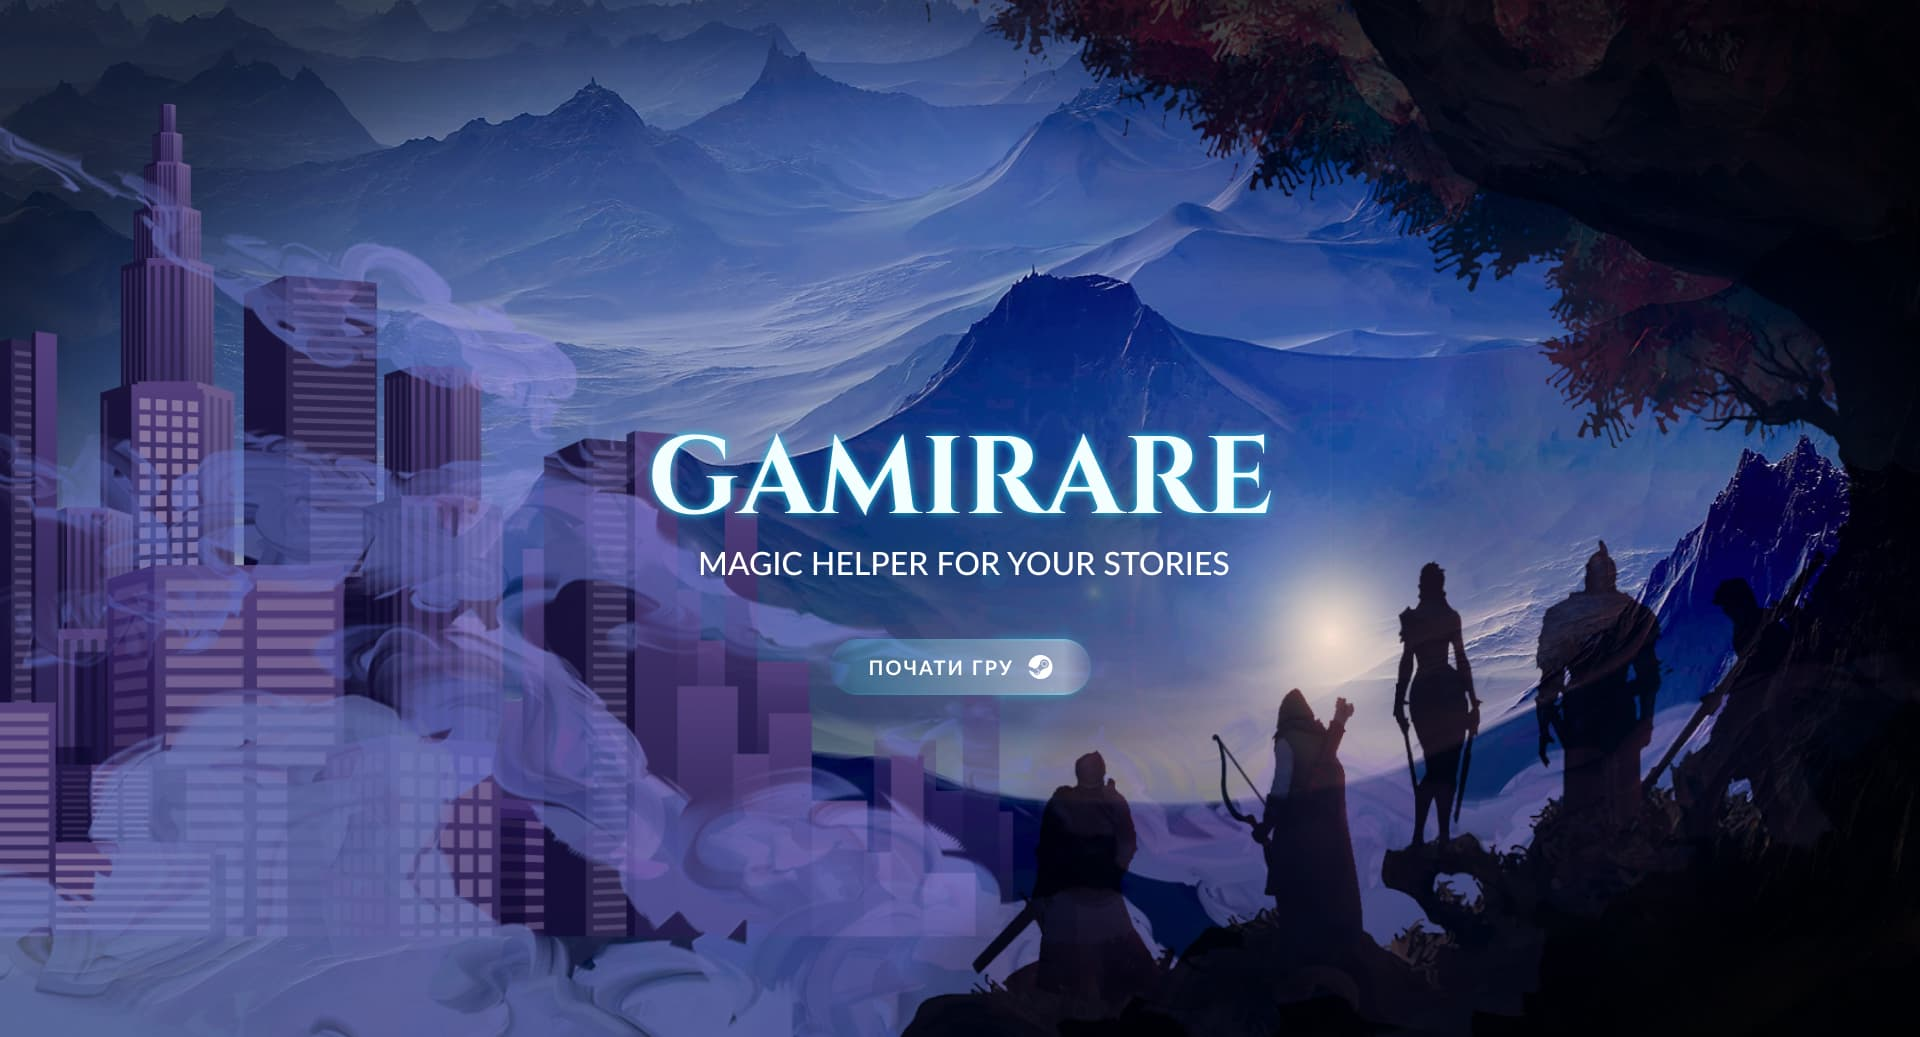
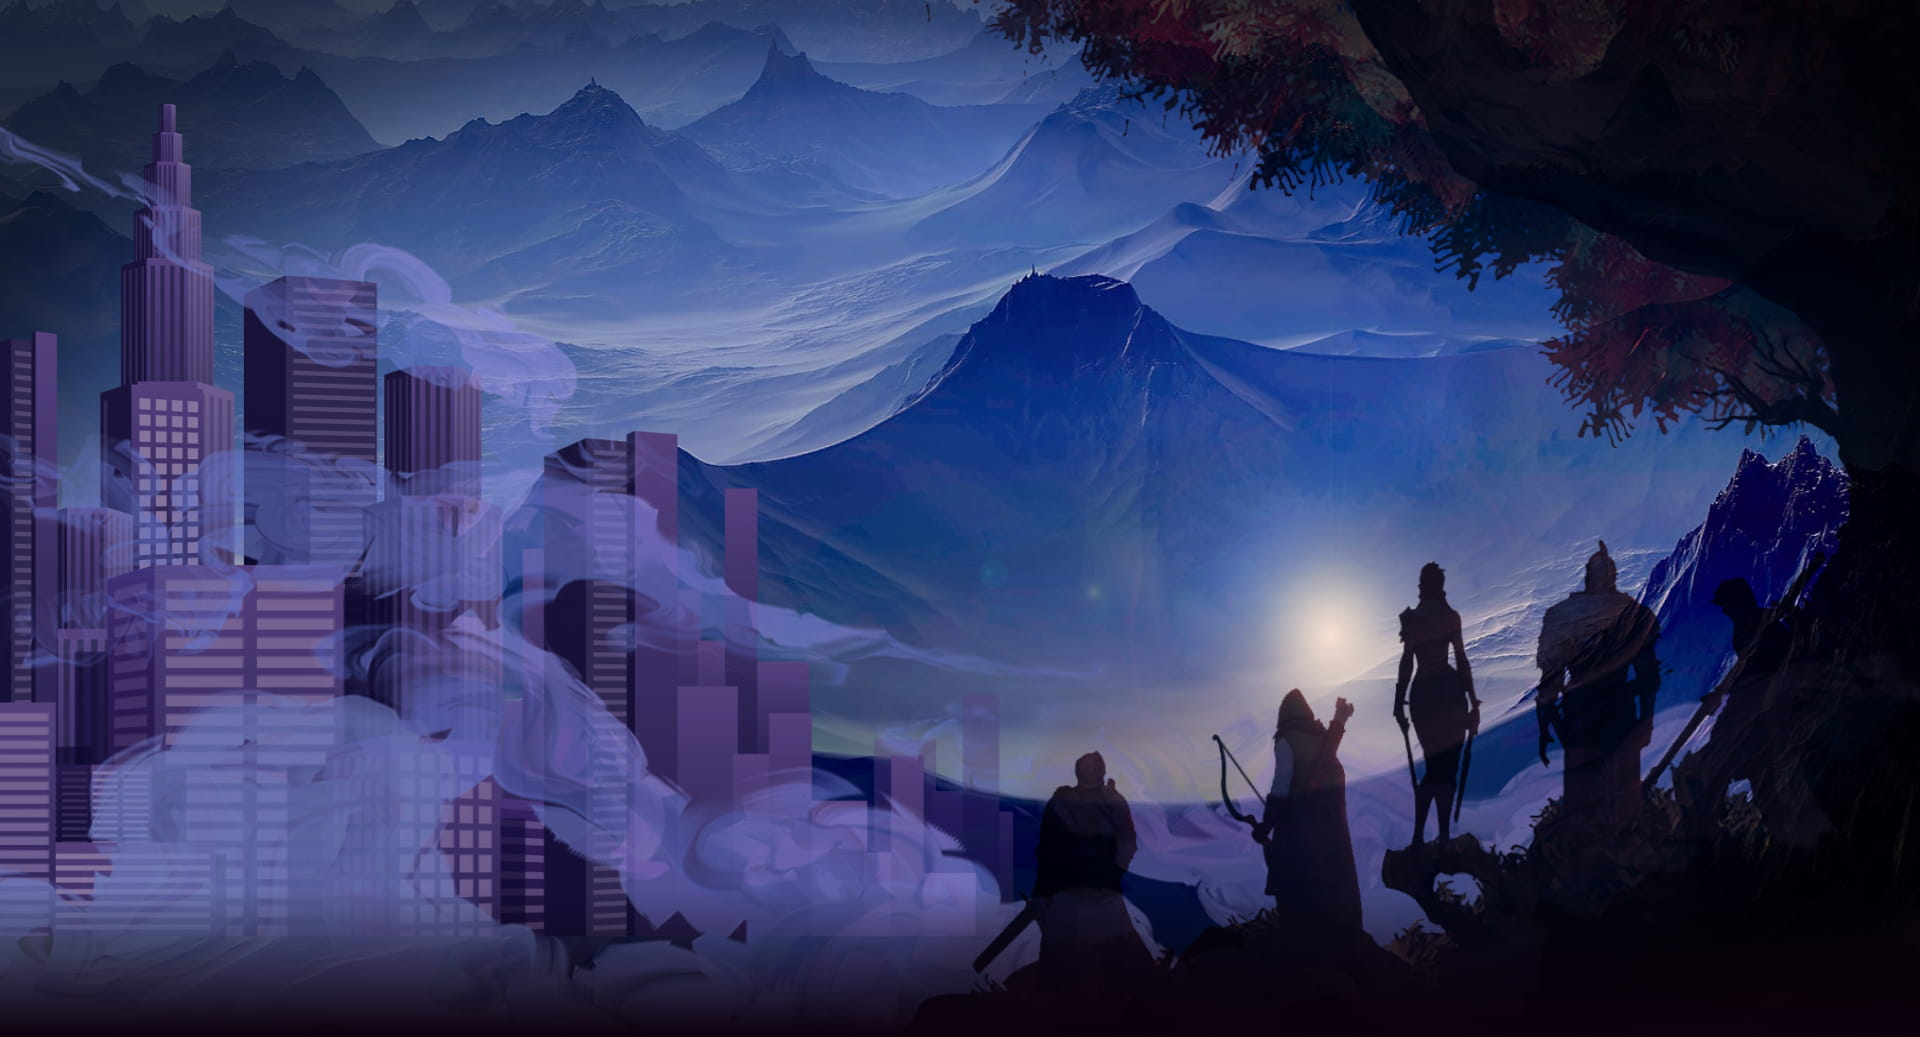
commit

diff --git a/src/components/HomeHero/HomeHero.module.scss b/src/components/HomeHero/HomeHero.module.scss
@@ -18,29 +18,51 @@
     background-size: cover;
 
 
-    width: 360px;
+    max-width: 744px;
     height: 700px;
 
-    background-image: url(https://diniszabrodsky.github.io/MiramixiStoryteller/Image/Hero/HomeHeroTable.jpg);
+    background-image: url(https://diniszabrodsky.github.io/MiramixiStoryteller/Image/Hero/HomeHeroMobile.jpg);
 
     @media screen and (min-device-pixel-ratio: 2),
     (min-resolution: 192dpi),
     (min-resolution: 2dppx) {
-        background-image: url(https://diniszabrodsky.github.io/MiramixiStoryteller/Image/Hero/HomeHeroTable@2x.jpg);
+        background-image: url(https://diniszabrodsky.github.io/MiramixiStoryteller/Image/Hero/HomeHeroMobile@2x.jpg);
     }
 
-    // @media screen and (min-width: 1920px) {
-        // max-width: 1920px;
-        // height: 1037px;
+    @media screen and (min-width: 360px) {
+        background-image: url(https://diniszabrodsky.github.io/MiramixiStoryteller/Image/Hero/HomeHeroTable.jpg);
+    
+        @media screen and (min-device-pixel-ratio: 2),
+        (min-resolution: 192dpi),
+        (min-resolution: 2dppx) {
+            background-image: url(https://diniszabrodsky.github.io/MiramixiStoryteller/Image/Hero/HomeHeroTable@2x.jpg);
+        }
+    }
 
-        // background-image: url(../images/Hero/BGHero.jpg);
+    @media screen and (min-width: 744px) {
+        max-width: 1440px;
+        height: 1040px;
 
-        // @media screen and (min-device-pixel-ratio: 2),
-        // (min-resolution: 192dpi),
-        // (min-resolution: 2dppx) {
-        //     background-image: url(../images/Hero/BGHero@2x.jpg);
-        // }
-    //}
+        background-image: url(https://diniszabrodsky.github.io/MiramixiStoryteller/Image/Hero/HomeHeroDesctop.jpg);
+    
+        @media screen and (min-device-pixel-ratio: 2),
+        (min-resolution: 192dpi),
+        (min-resolution: 2dppx) {
+            background-image: url(https://diniszabrodsky.github.io/MiramixiStoryteller/Image/Hero/HomeHeroDesctop@2x.jpg);
+        }
+    }
+
+    @media screen and (min-width: 1440px) {
+        max-width: 1920px;
+        height: 777px;
+        
+    }
+
+    @media screen and (min-width: 1920px) {
+        width: 1920px;
+        height: 1037px;
+        
+    }
 }
 
 .heroText {

diff --git a/src/index.css b/src/index.css
@@ -40,7 +40,7 @@ h1, h2, h3, h4, h5, h6 {
 .heroTitel {
   margin: 0;
 
-  font-family: 'Cinzel Decorative';
+  font-family: 'Cinzel Decorative', cursive;
   font-style: normal;
   font-weight: 700;
   font-size: 48px;
